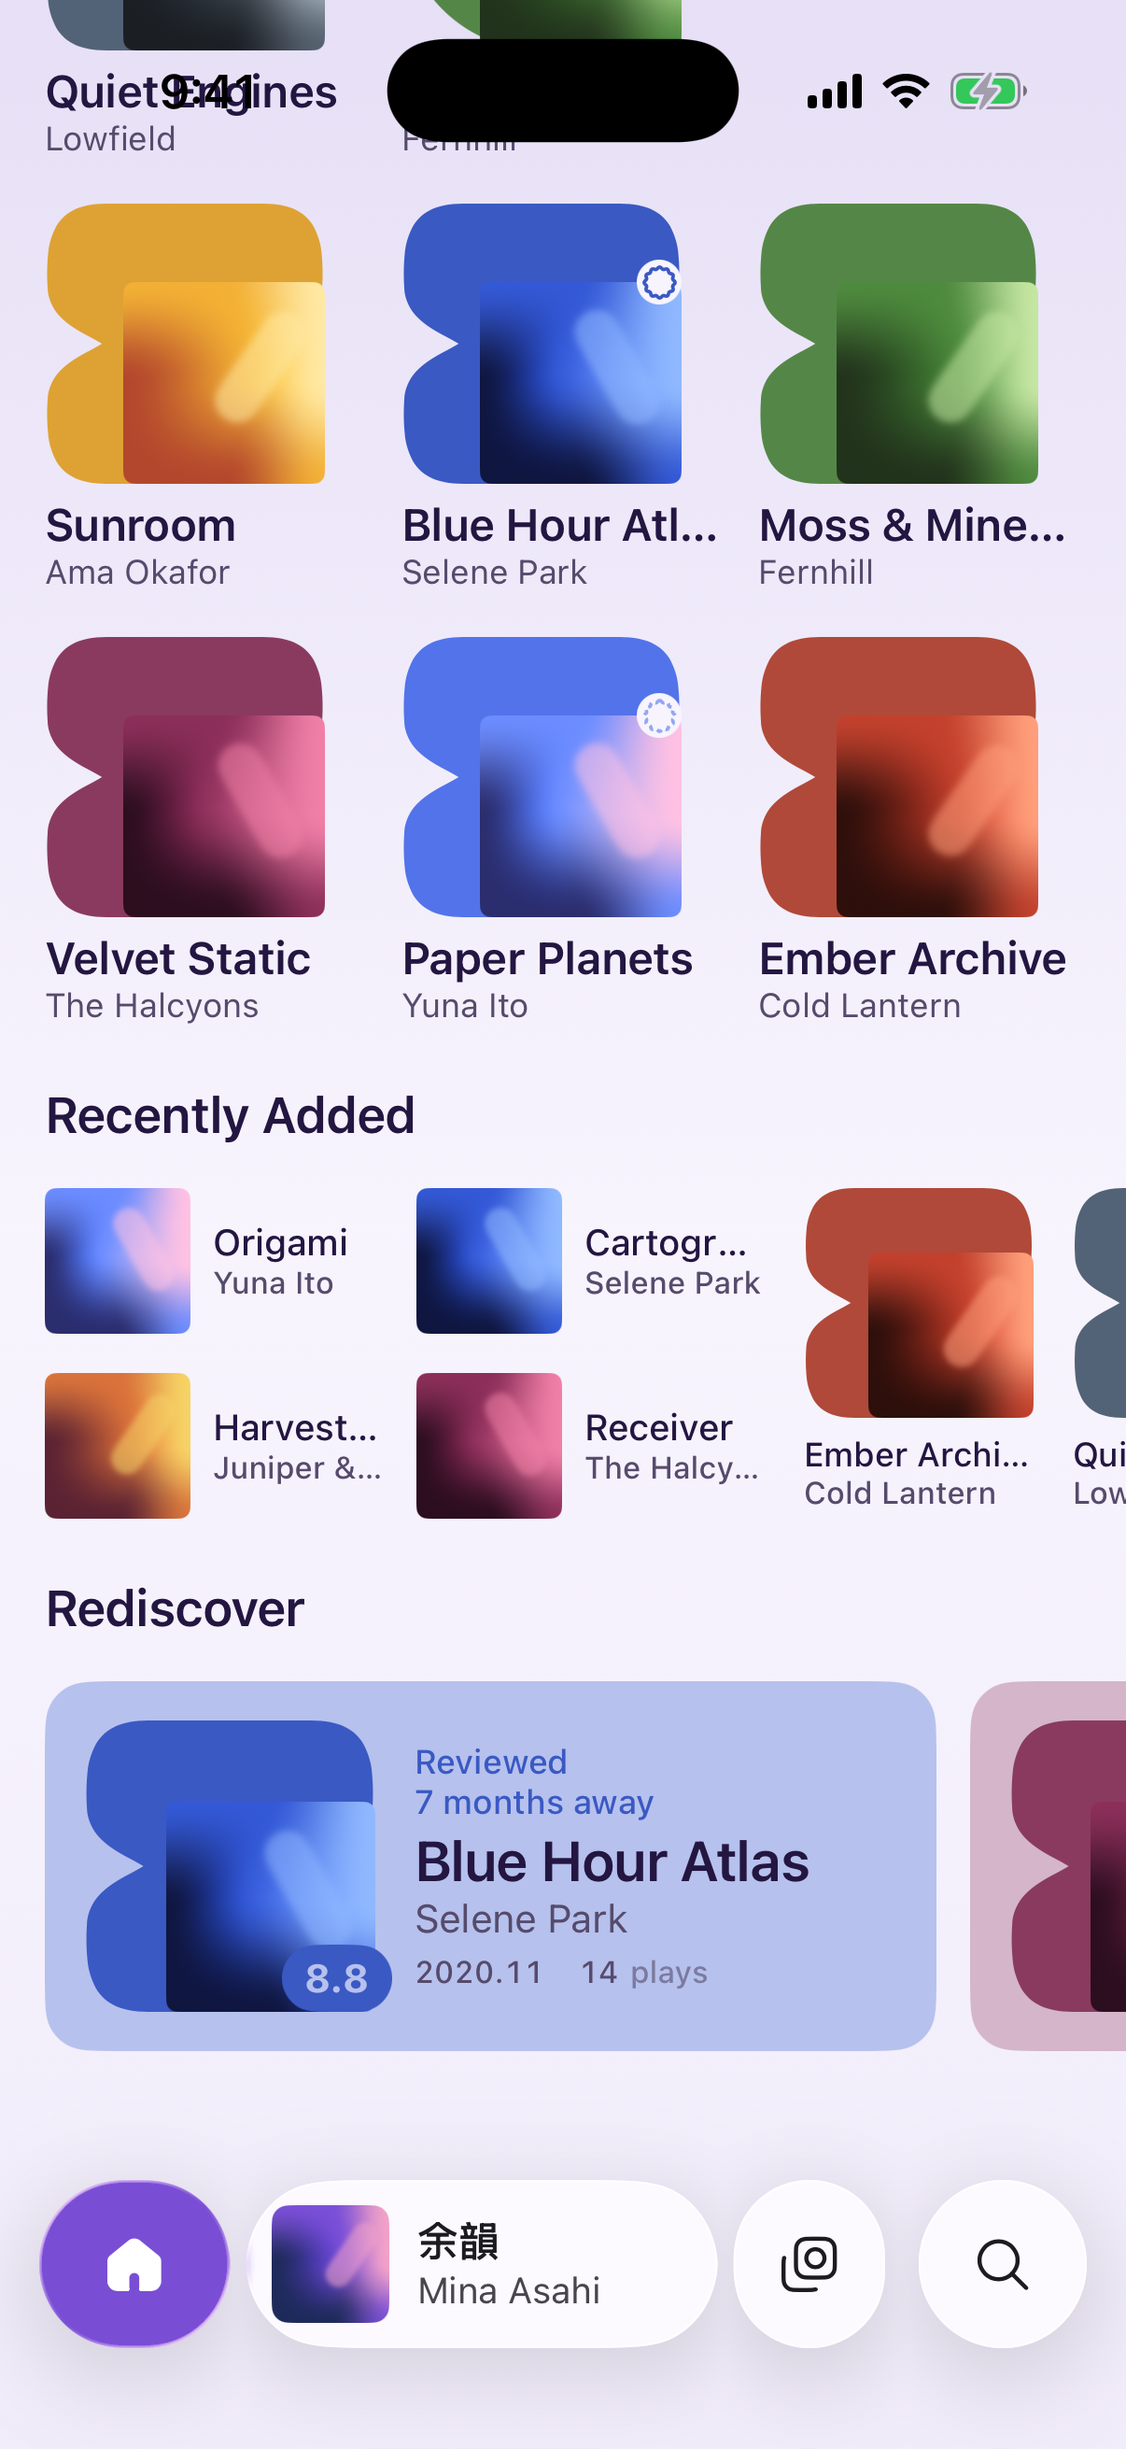
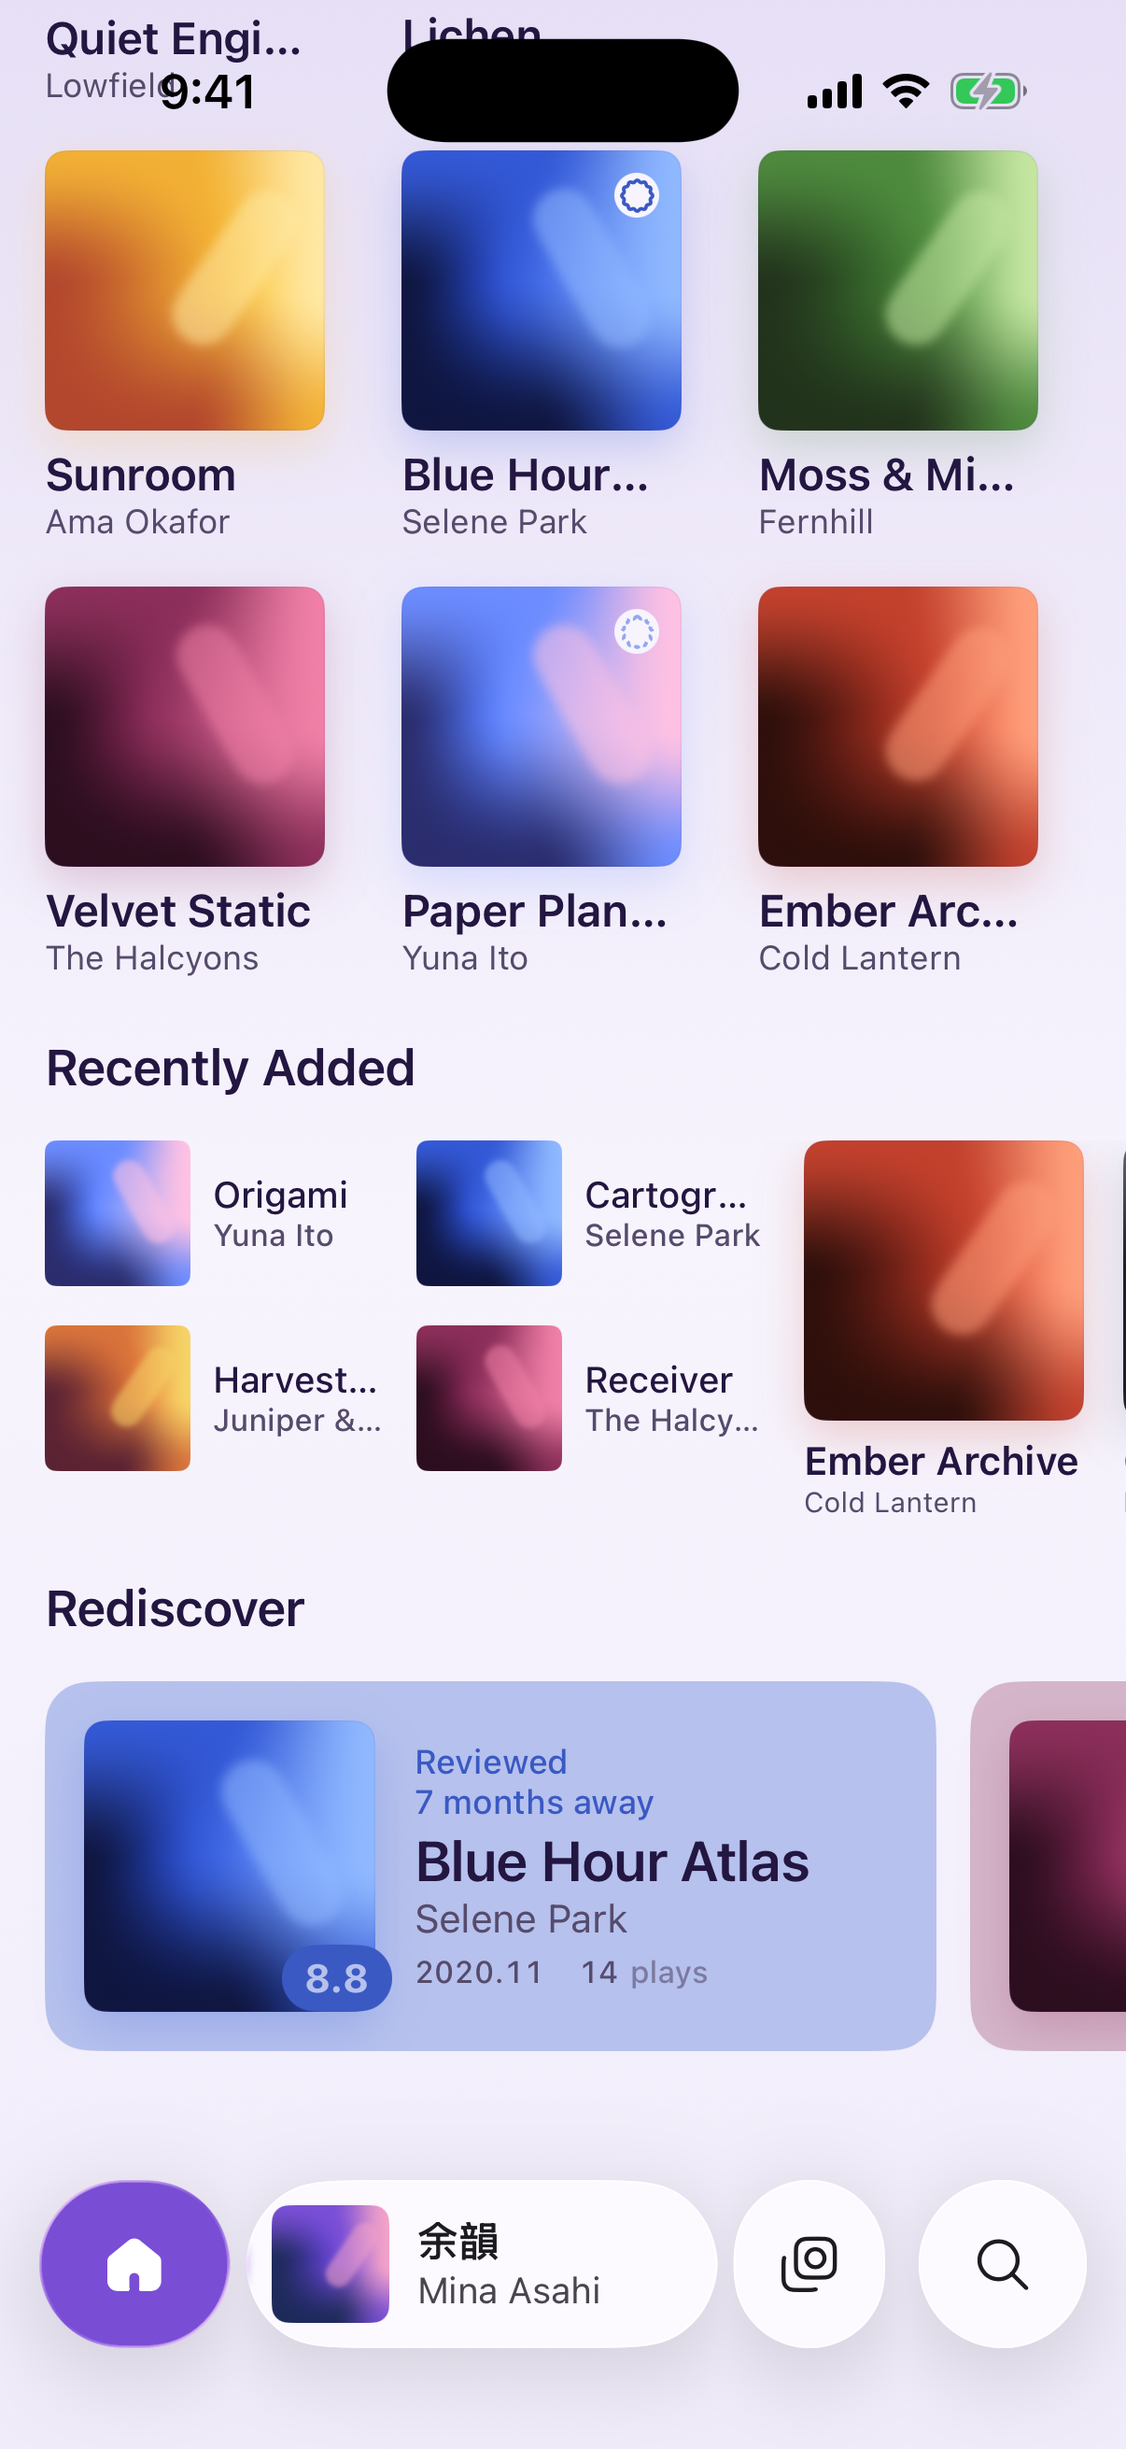
ios: Home album items as bare covers (A) or tinted tiles (B), no backdrop shapes

diff --git a/iosApp/Yoin/Home/HomeView.swift b/iosApp/Yoin/Home/HomeView.swift
@@ -25,8 +25,8 @@ struct HomeView: View {
             .onGeometryChange(for: CGFloat.self) { $0.size.width - 32 } action: { contentWidth = $0 }
         }
         .contentMargins(.bottom, 108, for: .scrollContent)
-        // `-screen home-bottom` opens scrolled to the end (screenshots).
-        .defaultScrollAnchor(LaunchConfig.screen == "home-bottom" ? .bottom : .top)
+        // `-screen home-bottom` / `home-tile-bottom` open scrolled to the end (screenshots).
+        .defaultScrollAnchor(LaunchConfig.screen.hasSuffix("-bottom") ? .bottom : .top)
         .scrollEdgeEffectStyle(.soft, for: .all)
         .background(
             LinearGradient(colors: [scheme.surfaceContainer, scheme.background, scheme.surfaceContainerLow],
@@ -197,7 +197,7 @@ extension EnvironmentValues {
 }
 
 /// Android card wash: container = lerp(surfaceContainerLow, backdrop base, 0.30).
-private func cardWash(_ scheme: CoverScheme, _ palette: CoverPalette) -> Color {
+func cardWash(_ scheme: CoverScheme, _ palette: CoverPalette) -> Color {
     scheme.surfaceContainerLow.mix(with: BackdropColors(palette).base, by: 0.30, in: .perceptual)
 }
 
@@ -246,7 +246,7 @@ private struct HeroCard: View {
         let muted = s.onSurfaceVariant
         Button { model.open(album) } label: {
             HStack(spacing: 14) {
-                EntityBackdrop(entity: .album, palette: album.palette, seed: album.seed, size: 96)
+                EntityBackdrop(entity: .album, palette: album.palette, seed: album.seed, size: 104, stroke: s.primary)
                     .zoomSource(album.id, zoomNS)
                 VStack(alignment: .leading, spacing: 3) {
                     Text(timeAgo).font(.gsf(11, .medium)).foregroundStyle(muted)
@@ -279,7 +279,7 @@ private struct SmallCard: View {
         Button { model.open(album) } label: {
             VStack(alignment: .leading, spacing: 4) {
                 HStack(alignment: .top, spacing: 10) {
-                    EntityBackdrop(entity: entity, palette: album.palette, seed: album.seed, size: 48)
+                    EntityBackdrop(entity: entity, palette: album.palette, seed: album.seed, size: 52, stroke: s.primary)
                     VStack(alignment: .leading, spacing: 0) {
                         Text(typeLabel)
                         Text(timeAgo)
@@ -314,7 +314,7 @@ private struct WideCard: View {
         let s = scheme!
         Button { model.open(album) } label: {
             HStack(spacing: 12) {
-                EntityBackdrop(entity: .album, palette: album.palette, seed: album.seed, size: 80)
+                EntityBackdrop(entity: .album, palette: album.palette, seed: album.seed, size: 88, stroke: s.primary)
                     .zoomSource(album.id, zoomNS)
                 VStack(alignment: .leading, spacing: 2) {
                     Text(timeAgo).font(.gsf(11, .medium)).foregroundStyle(s.onSurfaceVariant)
@@ -370,24 +370,15 @@ private struct JBICell: View {
     var body: some View {
         let s = scheme!
         Button { model.open(album) } label: {
-            VStack(alignment: .leading, spacing: 5) {
-                EntityBackdrop(entity: .album, palette: album.palette, seed: album.seed, size: 100)
-                    .zoomSource(album.id, zoomNS)
-                    .overlay(alignment: .topTrailing) {
-                        if let mark { markView(mark, ink: BackdropColors(album.palette).base, bg: s.background) }
-                    }
-                VStack(alignment: .leading, spacing: 0) {
-                    Text(album.title).font(.gsf(16, .semibold)).foregroundStyle(s.onSurface)
-                    Text(album.artist).font(.gsf(12)).foregroundStyle(s.onSurfaceVariant)
-                }
-                .lineLimit(1)
+            AlbumItem(album: album, size: 100) {
+                if let mark { markView(mark, ink: BackdropColors(album.palette).base, bg: s.background) }
             }
+            .zoomSource(album.id, zoomNS)
         }
         .buttonStyle(PressScale())
     }
 
-    /// Centered on the artwork's top-end corner (artwork = 0.72 of the box,
-    /// bottom-end aligned), lifted 8 dp.
+    /// Memory mark: 16 dp disc + 12 dp Cookie12Sided, on the cover's top-trailing corner.
     private func markView(_ m: MemoryMark, ink: Color, bg: Color) -> some View {
         ZStack {
             Circle().fill(bg).frame(width: 16, height: 16)
@@ -400,8 +391,56 @@ private struct JBICell: View {
                     .frame(width: 11, height: 11)
             }
         }
-        // design.md: center on the artwork's top edge, right edge flush with it.
-        .offset(x: 0, y: 28 - 8)
+        .padding(8)
+    }
+}
+
+/// One album on Home: cover plus title (GSF SemiBold, ROND 100) and artist.
+/// A (default): bare cover on the page. B (`-homeAlbum tile`): the text sits in
+/// a light tile of the cover color under the cover, same corner family.
+struct AlbumItem<Mark: View>: View {
+    @Environment(\.homeScheme) private var scheme
+    var album: Album
+    var size: CGFloat
+    var titleSize: CGFloat = 16
+    @ViewBuilder var mark: () -> Mark
+
+    var body: some View {
+        let s = scheme!
+        let tile = LaunchConfig.homeAlbumTile
+        VStack(alignment: .leading, spacing: tile ? 0 : 6) {
+            EntityBackdrop(entity: .album, palette: album.palette, seed: album.seed, size: size, stroke: s.primary)
+                .overlay(alignment: .topTrailing) { mark() }
+            VStack(alignment: .leading, spacing: 0) {
+                Text(album.title)
+                    .font(YoinFont.font(size: titleSize, YoinFont.Axes(weight: 600, round: 100)))
+                    .foregroundStyle(s.onSurface)
+                Text(album.artist)
+                    .font(.gsf(titleSize - 4))
+                    .foregroundStyle(s.onSurfaceVariant)
+            }
+            .lineLimit(1)
+            .padding(.horizontal, tile ? 8 : 0)
+            .padding(.top, tile ? 8 : 0)
+            .padding(.bottom, tile ? 9 : 0)
+            .frame(width: size, alignment: .leading)
+        }
+        .background {
+            if tile {
+                UnevenRoundedRectangle(topLeadingRadius: EntityBackdrop.corner(size),
+                                       bottomLeadingRadius: EntityBackdrop.corner(size),
+                                       bottomTrailingRadius: EntityBackdrop.corner(size),
+                                       topTrailingRadius: EntityBackdrop.corner(size), style: .continuous)
+                    .fill(cardWash(s, album.palette))
+            }
+        }
+        .frame(width: size, alignment: .leading)
+    }
+}
+
+extension AlbumItem where Mark == EmptyView {
+    init(album: Album, size: CGFloat, titleSize: CGFloat = 16) {
+        self.init(album: album, size: size, titleSize: titleSize) { EmptyView() }
     }
 }
 
@@ -418,11 +457,12 @@ private struct SignalCard: View {
         Button { model.open(album) } label: {
             HStack(alignment: .top, spacing: 16) {
                 VStack(alignment: .leading, spacing: 5) {
-                    EntityBackdrop(entity: kind == .ratedAlbum ? .album : .song,
-                                   palette: album.palette, seed: album.seed, size: 100)
+                    EntityBackdrop(entity: .album, palette: album.palette, seed: album.seed, size: 100,
+                                   stroke: s.primary)
                     VStack(alignment: .leading, spacing: 0) {
                         Text(kind == .ratedAlbum ? album.title : album.tracks[0].title)
-                            .font(.gsf(16, .semibold)).foregroundStyle(s.onSurface)
+                            .font(YoinFont.font(size: 16, YoinFont.Axes(weight: 600, round: 100)))
+                            .foregroundStyle(s.onSurface)
                         Text(album.artist).font(.gsf(12)).foregroundStyle(s.onSurfaceVariant)
                     }
                     .lineLimit(1)
@@ -482,21 +522,11 @@ private struct TrackTile: View {
 
 private struct AlbumMini: View {
     @Environment(AppModel.self) private var model
-    @Environment(\.homeScheme) private var scheme
     var album: Album
 
     var body: some View {
-        let s = scheme!
         Button { model.open(album) } label: {
-            VStack(alignment: .leading, spacing: 6) {
-                EntityBackdrop(entity: .album, palette: album.palette, seed: album.seed, size: 82)
-                VStack(alignment: .leading, spacing: 0) {
-                    Text(album.title).font(.gsf(12, .medium)).foregroundStyle(s.onSurface)
-                    Text(album.artist).font(.gsf(11, .medium)).foregroundStyle(s.onSurfaceVariant)
-                }
-                .lineLimit(1)
-            }
-            .frame(width: 82, alignment: .leading)
+            AlbumItem(album: album, size: 100, titleSize: 14)
         }
         .buttonStyle(PressScale())
     }
@@ -519,7 +549,7 @@ private struct RediscoverCard: View {
         let container = cardWash(s, album.palette)
         Button { model.open(album) } label: {
             HStack(spacing: 14) {
-                EntityBackdrop(entity: .album, palette: album.palette, seed: album.seed, size: 104)
+                EntityBackdrop(entity: .album, palette: album.palette, seed: album.seed, size: 104, stroke: s.primary)
                     .overlay(alignment: .bottomTrailing) {
                         if let score {
                             Text(String(format: "%.1f", score))

diff --git a/iosApp/Yoin/Theme/Shapes.swift b/iosApp/Yoin/Theme/Shapes.swift
@@ -62,47 +62,6 @@ extension Album {
     var seed: Int { id.rawId.unicodeScalars.reduce(0) { $0 + Int($1.value) } % 7 }
 }
 
-/// MaterialShapes.Bun (Android's album backdrop): a squared stack of two
-/// lobes with a pinched waist. Drawn from MaterialShapes' Bun points
-/// (waist at x 0.796, lobe edge 0.992 at y 0.631, mirrored), corners eased by
-/// hand rather than RoundedPolygon smoothing.
-struct BunShape: Shape {
-    func path(in r: CGRect) -> Path {
-        func p(_ x: CGFloat, _ y: CGFloat) -> CGPoint { CGPoint(x: r.minX + x * r.width, y: r.minY + y * r.height) }
-        var path = Path()
-        path.move(to: p(0.5, 0))
-        path.addLine(to: p(0.78, 0))
-        path.addCurve(to: p(0.99, 0.30), control1: p(0.97, 0), control2: p(1.0, 0.12))
-        path.addCurve(to: p(0.796, 0.5), control1: p(0.985, 0.42), control2: p(0.86, 0.46))
-        path.addCurve(to: p(0.99, 0.70), control1: p(0.86, 0.54), control2: p(0.985, 0.58))
-        path.addCurve(to: p(0.78, 1), control1: p(1.0, 0.88), control2: p(0.97, 1))
-        path.addLine(to: p(0.22, 1))
-        path.addCurve(to: p(0.01, 0.70), control1: p(0.03, 1), control2: p(0, 0.88))
-        path.addCurve(to: p(0.204, 0.5), control1: p(0.015, 0.58), control2: p(0.14, 0.54))
-        path.addCurve(to: p(0.01, 0.30), control1: p(0.14, 0.46), control2: p(0.015, 0.42))
-        path.addCurve(to: p(0.22, 0), control1: p(0, 0.12), control2: p(0.03, 0))
-        path.closeSubpath()
-        return path
-    }
-}
-
-/// MaterialShapes.Ghostish (playlist backdrop), approximated: round head,
-/// straight sides, a three-lobed hem.
-struct GhostishShape: Shape {
-    func path(in r: CGRect) -> Path {
-        func p(_ x: CGFloat, _ y: CGFloat) -> CGPoint { CGPoint(x: r.minX + x * r.width, y: r.minY + y * r.height) }
-        var path = Path()
-        path.move(to: p(0, 0.5))
-        path.addArc(center: p(0.5, 0.5), radius: r.width / 2, startAngle: .degrees(180), endAngle: .degrees(0), clockwise: false)
-        path.addLine(to: p(1, 0.9))
-        path.addQuadCurve(to: p(0.667, 0.9), control: p(0.833, 1.1))
-        path.addQuadCurve(to: p(0.333, 0.9), control: p(0.5, 1.1))
-        path.addQuadCurve(to: p(0, 0.9), control: p(0.167, 1.1))
-        path.closeSubpath()
-        return path
-    }
-}
-
 /// Android ExpressiveBackdropPalette: base and accent tones from the cover.
 struct BackdropColors {
     var base: Color
@@ -133,31 +92,30 @@ struct BackdropColors {
     }
 }
 
-/// Android entity backdrop: the cover sits at 0.72 of a shape filled with the
-/// backdrop base, bottom-end aligned (HomeWidgetGrid.kt:880-980).
+/// Home cover on iOS. Android puts covers on MaterialShapes backdrops (Bun,
+/// Ghostish); iOS music apps show the bare cover, so here it is a square with
+/// a continuous corner that scales with size (≈ 11 pt at 170, 6 pt at 56), a
+/// hairline inner stroke so light covers don't melt into the page, and a soft
+/// shadow tinted with the cover. Artists stay circles.
 struct EntityBackdrop: View {
     enum Entity { case album, song, playlist, artist }
     var entity: Entity
     var palette: CoverPalette
     var seed: Int
     var size: CGFloat
+    var stroke: Color = .black
+
+    static func corner(_ size: CGFloat) -> CGFloat { 3 + size * 0.045 }
 
     var body: some View {
-        let base = BackdropColors(palette).base
-        ZStack(alignment: .bottomTrailing) {
-            switch entity {
-            case .album: BunShape().fill(base)
-            case .song: Circle().fill(base)
-            case .playlist: GhostishShape().fill(base)
-            case .artist: Color.clear
+        let r = entity == .artist ? size / 2 : Self.corner(size)
+        CoverArt(palette: palette, cornerRadius: 0, seed: seed)
+            .frame(width: size, height: size)
+            .clipShape(.rect(cornerRadius: r, style: .continuous))
+            .overlay {
+                RoundedRectangle(cornerRadius: r, style: .continuous)
+                    .strokeBorder(stroke.opacity(0.08), lineWidth: 0.5)
             }
-            if entity == .artist {
-                CoverArt(palette: palette, cornerRadius: size, seed: seed)
-            } else {
-                CoverArt(palette: palette, cornerRadius: 4, seed: seed)
-                    .frame(width: size * 0.72, height: size * 0.72)
-            }
-        }
-        .frame(width: size, height: size)
+            .shadow(color: palette.a.opacity(0.22), radius: 8, y: 6)
     }
 }

diff --git a/iosApp/Yoin/Theme/Theme.swift b/iosApp/Yoin/Theme/Theme.swift
@@ -68,6 +68,10 @@ struct YoinIcon: View {
 /// Launch arguments, e.g. `-screen np-short -glass yoin`.
 enum LaunchConfig {
     static var screen: String { UserDefaults.standard.string(forKey: "screen") ?? "home" }
+    /// Home album items: bare cover (A, default) or tinted tile (B).
+    static var homeAlbumTile: Bool {
+        screen.hasPrefix("home-tile") || UserDefaults.standard.string(forKey: "homeAlbum") == "tile"
+    }
     static var glass: String {
         if screen.hasSuffix("-yoinglass") { return "yoin" }
         return UserDefaults.standard.string(forKey: "glass") ?? "system"

diff --git a/iosApp/docs/fidelity-home-np.md b/iosApp/docs/fidelity-home-np.md
@@ -57,7 +57,7 @@ Every value below comes from the Android Compose source (1 dp = 1 pt). Paths are
 | Small card | HomeEditorialContent.kt:2115-2192 | (C − 10)/3 × 118; padding 10; 48 backdrop + type/time labelSmall; title titleSmall SemiBold, 2 lines | Same |
 | Wide card | HomeEditorialContent.kt:2195-2262 | 118 tall; padding 12; 80 backdrop; gap 2 | Same |
 | Strip | HomeEditorialContent.kt:2265-2330 | Pill, padding 16×12; title bodyMedium SemiBold; 12 gap; subtitle at 60%; timeAgo at the end | Same (fill: low container mixed 10% with primary) |
-| Entity backdrop | HomeWidgetGrid.kt:880-980 | Album = MaterialShapes.Bun, Song = Circle, Playlist = Ghostish; artwork 0.72, bottom-end, Thumb 4 | `BunShape` drawn from MaterialShapes' Bun points; `GhostishShape` approximated |
+| Entity backdrop | HomeWidgetGrid.kt:880-980 | Album = MaterialShapes.Bun, Song = Circle, Playlist = Ghostish; artwork 0.72, bottom-end, Thumb 4 | **iOS change:** no backdrop shape. Bare square cover, continuous corner 3 + 0.045 × size (≈ 7.5 at 100, 11 at 170), 0.5 inner stroke in primary at 8%, cover-tinted shadow (22%, y 6, blur 16). Artists stay circles. Activities/Rediscover covers grow into the space the shape took (hero 104, small 52, wide 88, Rediscover 104) |
 | JBI grid | HomeWidgetGrid.kt:205, 473-512 | 3 columns, column gap 12, row gap 16. Signal cards alternate sides (wide-left, then compact-left) | Same packing |
 | JBI 1×1 | HomeWidgetGrid.kt:772-868 | Backdrop max 100; 5 gap; title titleMedium SemiBold 16/22; subtitle bodySmall 12 | Same |
 | 1×2 signal | HomeWidgetGrid.kt:608-755 | 100 cover block; 16 gap; score headlineSmall Bold tabular in ink; basis labelSmall at 85%; comment titleMedium SemiBold 17 (rated album) or bodyMedium (noted track), 3 lines | Same |
@@ -67,6 +67,7 @@ Every value below comes from the Android Compose source (1 dp = 1 pt). Paths are
 
 ## iOS-only decisions
 
+- **Home album items:** Mobbin check (Apple Music, Spotify, YouTube Music, Deezer, SoundCloud): iOS music apps show bare square covers with 1–2 lines of text, never a shape behind them. A (default) is the bare cover with the title in GSF SemiBold ROND 100. B (`-homeAlbum tile`, `-screen home-tile`) puts the text in a light cover-tinted tile under the cover. The memory mark sits on the cover's top-trailing corner, inset 8. The Rediscover score stays a solid capsule.
 - **Bottom bar:** stays Liquid Glass (Home · Now Playing pill · Library + Search circle), not Android's 68 dp surfaceContainerHigh bar.
 - **Opening Now Playing:** the full page grows out of the bar's pill (matched geometry), with a 62 pt radius so it lands on the screen's own corners.
 - **Now Playing background:** frosted glass over the current cover's color, with the previous album's color at the top edge and the next album's at the bottom. Android uses a surfaceContainer → background gradient; the iPad panel keeps that gradient.
